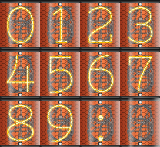
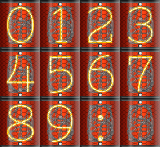
updated in game UI graphics implemented move constructors for UI components fix bug accidentally awarding rank when receiving XP

diff --git a/LunarMooner/src/LMPlayerInfoDisplay.cpp b/LunarMooner/src/LMPlayerInfoDisplay.cpp
@@ -62,6 +62,12 @@ namespace
     };
 
     const float textSpeed = -200.f;
+
+    const std::array<sf::Vector2f, 2u> playerActivePositions
+    {
+        sf::Vector2f(54.f, 608.f),
+        sf::Vector2f(1694.f, 608.f)
+    };
 }
 
 ScoreDisplay::ScoreDisplay(xy::MessageBus& mb, ResourceCollection& rc, std::vector<PlayerState>& ps)
@@ -82,11 +88,11 @@ ScoreDisplay::ScoreDisplay(xy::MessageBus& mb, ResourceCollection& rc, std::vect
     XY_ASSERT(ps.size() <= 4, "Currently only supporting 4 player display");
     for (auto i = 0u; i < ps.size(); ++i)
     {
-        //m_playerTexts.emplace_back("",font, 24u);
-        //m_playerTexts.back().setPosition(textPositions[i]);
-
-        m_uiElements.emplace_back(std::make_unique<UIElements>(rc, font, i));
+        m_uiElements.emplace_back(rc, i);
     }
+
+    m_activePlayerSprite.setTexture(rc.textureResource.get("assets/images/game/console/active_button.png"));
+    m_activePlayerSprite.setPosition(playerActivePositions[0]);
 
     m_bounds.width = xy::DefaultSceneSize.x;
     m_bounds.height = xy::DefaultSceneSize.y;
@@ -113,28 +119,12 @@ void ScoreDisplay::entityUpdate(xy::Entity&, float dt)
     std::string lives;
     for (auto i = 0u; i < m_playerStates.size(); ++i)
     {
-        //std::stringstream ss;
-        //ss << std::setw(2) << std::setfill('0') 
-        //    << static_cast<std::uint32_t>(m_playerStates[i].timeRemaining / 60.f) << ":" 
-        //    << std::setw(2) << std::setfill('0')
-        //    << std::floor(std::fmod(m_playerStates[i].timeRemaining, 60.f));
-        //std::string remainingTime = ss.str();
-        //
-        //lives = (m_playerStates[i].lives > -1) ? "Lives: " + std::to_string(m_playerStates[i].lives) : "GAME OVER";
-        //m_playerTexts[i].setString(
-        //    "Player " + names[i] + "\n"
-        //    "Score: " + std::to_string(m_playerStates[i].score) + "\n"
-        //    "Level: " + std::to_string(m_playerStates[i].level) + "\n"
-        //    "Ammo: " + std::to_string(m_playerStates[i].ammo) + "\n"
-        //    + lives + "\n"
-        //    + remainingTime);
-
-        m_uiElements[i]->ammo.setValue(m_playerStates[i].ammo);
-        m_uiElements[i]->clockDisplay.setTime(m_playerStates[i].timeRemaining);
-        m_uiElements[i]->level.setLevel(m_playerStates[i].level);
-        m_uiElements[i]->lives.setValue(m_playerStates[i].lives);
-        m_uiElements[i]->score.setValue(m_playerStates[i].score);
-        m_uiElements[i]->update(dt);
+        m_uiElements[i].ammo.setValue(m_playerStates[i].ammo);
+        m_uiElements[i].clockDisplay.setTime(m_playerStates[i].timeRemaining);
+        m_uiElements[i].level.setLevel(m_playerStates[i].level);
+        m_uiElements[i].lives.setValue(m_playerStates[i].lives);
+        m_uiElements[i].score.setValue(m_playerStates[i].score);
+        m_uiElements[i].update(dt);
     }
 
     //update any active scores and remove dead ones
@@ -152,14 +142,7 @@ void ScoreDisplay::entityUpdate(xy::Entity&, float dt)
 void ScoreDisplay::setPlayerActive(std::size_t idx)
 {
     //XY_ASSERT(idx < m_playerTexts.size(), "Index out of range");
-    //for (auto & p : m_playerTexts)
-    //{
-    //    p.setFillColor(sf::Color::Yellow);
-    //    p.setOutlineThickness(1.f);
-    //    p.setOutlineColor(sf::Color::Red);
-    //}
-    //m_playerTexts[idx].setFillColor(sf::Color::White);    
-    //m_playerTexts[idx].setOutlineThickness(0.f);
+    m_activePlayerSprite.setPosition(playerActivePositions[idx]);
 }
 
 void ScoreDisplay::showMessage(const std::string& msg)
@@ -186,26 +169,22 @@ void ScoreDisplay::showScore(sf::Uint16 score, const sf::Vector2f& position, sf:
 //private
 void ScoreDisplay::draw(sf::RenderTarget& rt, sf::RenderStates states) const
 {
+    for (const auto& s : m_uiElements)
+    {
+        rt.draw(s, states);
+    }
+    rt.draw(m_activePlayerSprite, sf::BlendAdd);
+
     if(m_showMessage) rt.draw(m_messageText, states);
-    
-    //for (const auto& text : m_playerTexts)
-    //{
-    //    rt.draw(text, states);
-    //}
 
     for (const auto& st : m_scoreTags)
     {
         rt.draw(st.text, states);
     }
-
-    for (const auto& s : m_uiElements)
-    {
-        rt.draw(*s);
-    }
 }
 
 
-//score diplayer thinger
+//score displayer thinger
 void ScoreDisplay::ScoreTag::update(float dt)
 {
     text.move(0.f, textSpeed * dt);
@@ -218,11 +197,11 @@ void ScoreDisplay::ScoreTag::update(float dt)
 
 
 //ui elements struct
-ScoreDisplay::UIElements::UIElements(ResourceCollection& rc, const sf::Font& font, sf::Uint8 player)
+ScoreDisplay::UIElements::UIElements(ResourceCollection& rc, sf::Uint8 player)
     : clockDisplay  (rc.textureResource.get("assets/images/game/console/nixie_sheet.png")),
-    ammo            (rc.textureResource.get("assets/images/game/console/counter.png"), font, "Ammo", 2),
-    lives           (rc.textureResource.get("assets/images/game/console/counter.png"), font, "Lives", 2),
-    score           (rc.textureResource.get("assets/images/game/console/counter.png"), font, "", 6),
+    ammo            (rc.textureResource.get("assets/images/game/console/counter.png"), 2),
+    lives           (rc.textureResource.get("assets/images/game/console/counter.png"), 2),
+    score           (rc.textureResource.get("assets/images/game/console/counter.png"), 6),
     level           (rc.textureResource.get("assets/images/game/console/level_meter.png"))
 {
     //hackety blunge to layout elements

diff --git a/LunarMooner/src/LMCounterDisplay.cpp b/LunarMooner/src/LMCounterDisplay.cpp
@@ -26,6 +26,7 @@ source distribution.
 *********************************************************************/
 
 #include <LMCounterDisplay.hpp>
+#include <CommandIds.hpp>
 
 #include <SFML/Graphics/Texture.hpp>
 #include <SFML/Graphics/RenderTarget.hpp>
@@ -42,16 +43,13 @@ namespace
     const float textSpacing = 34.f;
 }
 
-CounterDisplay::CounterDisplay(sf::Texture& texture, const sf::Font& font, const std::string& label, sf::Uint8 digitCount)
-    : m_subRects(digitCount),
-    m_texture   (texture),
-    m_vertices  (digitCount * 8) //8 verts per digit
+CounterDisplay::CounterDisplay(sf::Texture& texture, sf::Uint8 digitCount)
+    : m_currentValue(0),
+    m_subRects      (digitCount),
+    m_texture       (texture),
+    m_vertices      (digitCount * 8) //8 verts per digit
 {
     texture.setRepeated(true);
-
-    m_text.setFont(font);
-    m_text.setString(label);
-    m_text.setPosition(-(m_text.getLocalBounds().width + textSpacing), 0.f);
 
     sf::Vector2f size(texture.getSize());
     size.x /= 2.f;
@@ -112,6 +110,9 @@ void CounterDisplay::setValue(int value)
 {
     XY_ASSERT(value < (std::pow(10.f, m_subRects.size()) - 1), "Value too large!");
 
+    LMDirection direction = (value > m_currentValue) ? LMDirection::Up : LMDirection::Down;
+    m_currentValue = value;
+
     std::function<void(std::vector<sf::Uint8>&, int)> getDigits =
         [&getDigits](std::vector<sf::Uint8>& op, int number)
     {
@@ -130,16 +131,19 @@ void CounterDisplay::setValue(int value)
     std::size_t diff = m_subRects.size() - digits.size();
     for (std::size_t i = 0u; i < digits.size(); ++i, ++diff) 
     {
-        m_subRects[diff].targetValue = digits[i];
-
-        sf::Int8 distance = m_subRects[diff].targetValue - m_subRects[diff].currentValue;
-        if (distance != 0)
+        //only set a new target if not moving
+        if (m_subRects[diff].currentValue == m_subRects[diff].targetValue)
         {
-            if (std::abs(distance > 5))
+            m_subRects[diff].targetValue = digits[i];
+
+            sf::Int8 distance = m_subRects[diff].targetValue - m_subRects[diff].currentValue;
+            if (distance < 0 && direction == LMDirection::Up) distance += 10;
+            else if (distance > 0 && direction == LMDirection::Down) distance -= 10;
+
+            if (distance != 0)
             {
-                distance = 10 - distance;
+                m_subRects[diff].targetPosition = m_subRects[diff].getPosition().y + (distance * m_subRects[diff].size.y);
             }
-            m_subRects[diff].targetPosition = (m_subRects[diff].currentValue * m_subRects[diff].size.y) + (distance * m_subRects[diff].size.y);
         }
     }
 }
@@ -148,8 +152,6 @@ void CounterDisplay::setValue(int value)
 void CounterDisplay::draw(sf::RenderTarget& rt, sf::RenderStates states) const
 {
     states.transform *= getTransform();
-
-    rt.draw(m_text, states);
     states.texture = &m_texture;
     rt.draw(m_vertices.data(), m_vertices.size(), sf::Quads, states);
 }

diff --git a/LunarMooner/src/PlayerProfile.cpp b/LunarMooner/src/PlayerProfile.cpp
@@ -332,29 +332,32 @@ void PlayerProfile::handleMessage(const xy::Message& msg)
         case LMMessageId::RankEvent:
         {
             auto& msgData = msg.getData<LMRankEvent>();
-            switch (msgData.value)
+            if (msgData.type == LMRankEvent::RankUp)
             {
-            default: break;
-            case 10:
-                m_achievements[AchievementID::Rank10].unlocked = true;
-                raiseAchievementMessage(AchievementID::Rank10);
-                break;
-            case 20:
-                m_achievements[AchievementID::Rank20].unlocked = true;
-                raiseAchievementMessage(AchievementID::Rank20);
-                break;
-            case 30:
-                m_achievements[AchievementID::Rank30].unlocked = true;
-                raiseAchievementMessage(AchievementID::Rank30);
-                break;
-            case 40:
-                m_achievements[AchievementID::Rank40].unlocked = true;
-                raiseAchievementMessage(AchievementID::Rank40);
-                break;
-            case 50:
-                m_achievements[AchievementID::Rank50].unlocked = true;
-                raiseAchievementMessage(AchievementID::Rank50);
-                break;
+                switch (msgData.value)
+                {
+                default: break;
+                case 10:
+                    m_achievements[AchievementID::Rank10].unlocked = true;
+                    raiseAchievementMessage(AchievementID::Rank10);
+                    break;
+                case 20:
+                    m_achievements[AchievementID::Rank20].unlocked = true;
+                    raiseAchievementMessage(AchievementID::Rank20);
+                    break;
+                case 30:
+                    m_achievements[AchievementID::Rank30].unlocked = true;
+                    raiseAchievementMessage(AchievementID::Rank30);
+                    break;
+                case 40:
+                    m_achievements[AchievementID::Rank40].unlocked = true;
+                    raiseAchievementMessage(AchievementID::Rank40);
+                    break;
+                case 50:
+                    m_achievements[AchievementID::Rank50].unlocked = true;
+                    raiseAchievementMessage(AchievementID::Rank50);
+                    break;
+                }
             }
         }
             break;

diff --git a/LunarMooner/src/LMLevelMeter.cpp b/LunarMooner/src/LMLevelMeter.cpp
@@ -36,6 +36,7 @@ using namespace lm;
 namespace
 {
     const float pointerSize = 12.f;
+    const float pointerHeight = pointerSize * 2.f;
     const float pointerY = 48.f;
     const float padLeft = 21.f;
     const float numSpace = 16.f;
@@ -67,9 +68,9 @@ LevelMeter::LevelMeter(const sf::Texture& t)
     //arrow
     m_pointer.vertices[1].position.x = pointerSize;
     m_pointer.vertices[1].texCoords.x = pointerSize;
-    m_pointer.vertices[2].position = { pointerSize, pointerSize };
-    m_pointer.vertices[2].texCoords = m_pointer.vertices[2].position;
-    m_pointer.vertices[3].position.y = pointerSize;
+    m_pointer.vertices[2].position = { pointerSize, pointerHeight };
+    m_pointer.vertices[2].texCoords = { pointerSize, pointerSize };
+    m_pointer.vertices[3].position.y = pointerHeight;
     m_pointer.vertices[3].texCoords.y = pointerSize;
 
     for (auto i = 0u; i < 4; ++i)
@@ -77,7 +78,7 @@ LevelMeter::LevelMeter(const sf::Texture& t)
         m_vertices[i + 4].texCoords = m_pointer.vertices[i].texCoords;
     }
 
-    m_pointer.setOrigin(pointerSize / 2.f, pointerSize);
+    m_pointer.setOrigin(pointerSize / 2.f, pointerHeight);
     m_pointer.setPosition(180.f, pointerY);
 
     //calc positions of numbers on dial

diff --git a/LunarMooner/include/LMPlayerInfoDisplay.hpp b/LunarMooner/include/LMPlayerInfoDisplay.hpp
@@ -37,6 +37,7 @@ source distribution.
 
 #include <SFML/Graphics/Drawable.hpp>
 #include <SFML/Graphics/Text.hpp>
+#include <SFML/Graphics/Sprite.hpp>
 
 namespace xy
 {
@@ -71,11 +72,9 @@ namespace lm
         bool m_showMessage;
         float m_messageDisplayTime;
 
-        //std::vector<sf::Text> m_playerTexts;
-
         struct UIElements final : public sf::Drawable
         {
-            UIElements(ResourceCollection&, const sf::Font&, sf::Uint8);
+            UIElements(ResourceCollection&, sf::Uint8);
             void update(float);
 
             ClockDisplay clockDisplay;
@@ -87,8 +86,8 @@ namespace lm
         private:
             void draw(sf::RenderTarget&, sf::RenderStates) const override;
         };
-        //TODO understand perfect forwarding so we can construct these in place
-        std::vector<std::unique_ptr<UIElements>> m_uiElements;
+        std::vector<UIElements> m_uiElements;
+        sf::Sprite m_activePlayerSprite;
 
         struct ScoreTag final
         {

diff --git a/LunarMooner/include/LMCounterDisplay.hpp b/LunarMooner/include/LMCounterDisplay.hpp
@@ -47,15 +47,18 @@ namespace lm
     class CounterDisplay final : public sf::Drawable, public sf::Transformable
     {
     public:
-        CounterDisplay(sf::Texture&, const sf::Font&, const std::string&, sf::Uint8);
+        CounterDisplay(sf::Texture&, sf::Uint8);
         ~CounterDisplay() = default;
         CounterDisplay(const CounterDisplay&) = delete;
         CounterDisplay& operator = (const CounterDisplay&) = delete;
+        CounterDisplay(CounterDisplay&&) = default;
 
         void update(float);
         void setValue(int);
 
     private:
+
+        int m_currentValue;
 
         struct SubRect final : public sf::Transformable
         {
@@ -69,8 +72,6 @@ namespace lm
         std::vector<SubRect> m_subRects;
 
         const sf::Texture& m_texture;
-        sf::Text m_text;
-
         std::vector<sf::Vertex> m_vertices;
         void draw(sf::RenderTarget&, sf::RenderStates) const override;
     };

diff --git a/LunarMooner/include/LMLevelMeter.hpp b/LunarMooner/include/LMLevelMeter.hpp
@@ -45,6 +45,8 @@ namespace lm
         LevelMeter(const LevelMeter&) = delete;
         LevelMeter& operator = (const LevelMeter&) = delete;
 
+        LevelMeter(LevelMeter&&) noexcept = default;
+
         void update(float);
         void setLevel(sf::Uint8 level) { m_level = level - 1; }
 

diff --git a/LunarMooner/include/LMClockDisplay.hpp b/LunarMooner/include/LMClockDisplay.hpp
@@ -50,6 +50,8 @@ namespace lm
         ClockDisplay(const ClockDisplay&) = delete;
         ClockDisplay& operator = (const ClockDisplay&) = delete;
 
+        ClockDisplay(ClockDisplay&&) noexcept = default;
+
         void setTime(float); //time in seconds
 
     private:
